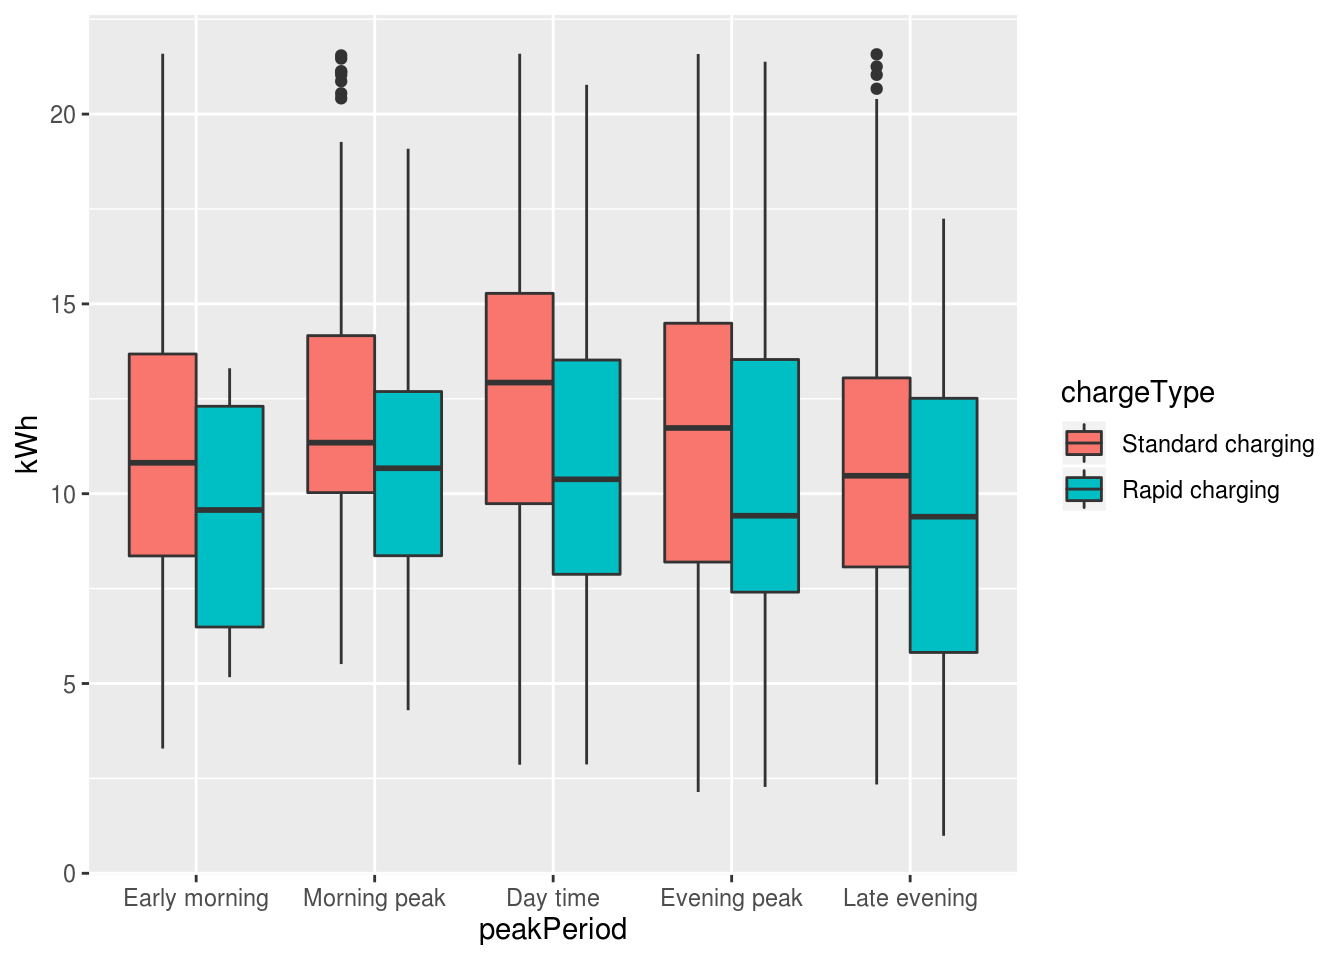
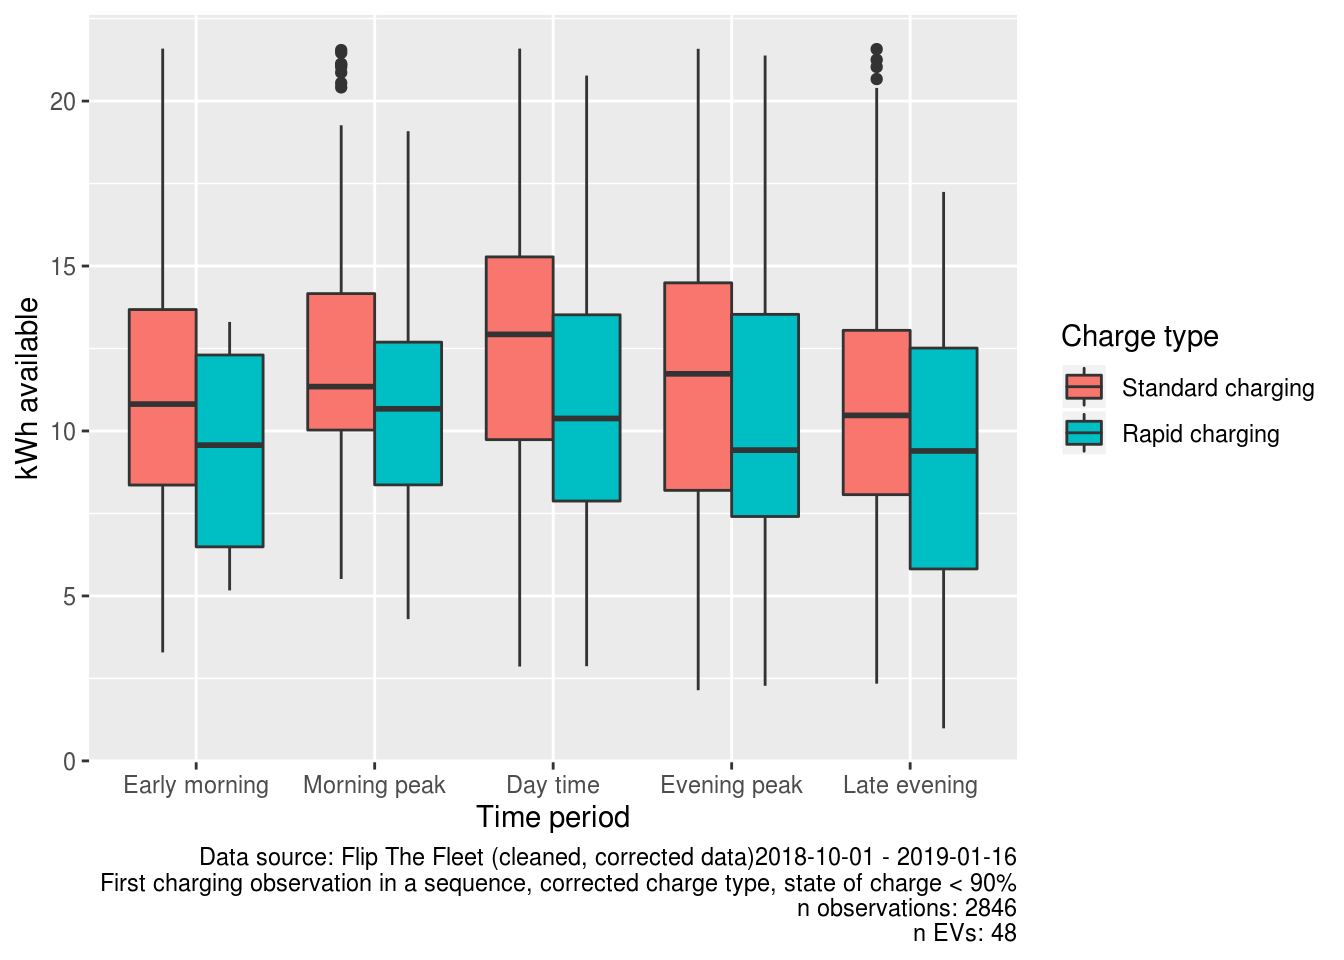
amended plot labels etc & added caption

diff --git a/docs/EVBB_report_EVBB_processed_all_v2.0_20190604.html b/docs/EVBB_report_EVBB_processed_all_v2.0_20190604.html
@@ -263,7 +263,7 @@ div.tocify {
 <h1 class="title toc-ignore">Analysis of electric vehicle usage patterns in New Zealand</h1>
 <h3 class="subtitle">Statistical report using Flip The Fleet data</h3>
 <h4 class="author">Rafferty Parker and Ben Anderson (<a href="https://www.otago.ac.nz/centre-sustainability/">Centre for Sustainability</a>, University of Otago, <a href="mailto:ben.anderson@otago.ac.nz">ben.anderson@otago.ac.nz</a>); Daniel Myall (Flip The Fleet, <a href="mailto:daniel@zeno.nz">daniel@zeno.nz</a>)</h4>
-<h4 class="date">Last run at: 2019-09-19 22:09:22</h4>
+<h4 class="date">Last run at: 2019-09-19 22:55:29</h4>
 
 </div>
 
@@ -5269,18 +5269,18 @@ Figure 6.5: Actual wholesale generation and estimated energy consumption under S
 ##  n obs: 1882040 
 ##  n variables: 10 
 ## 
-## ── Variable type:character ─────────────────────────────────────────────────────────────────────────────────────────────────────────────────────
+## ── Variable type:character ─────────────────────────────────────────────────────────────────────────────────────────────────────────
 ##      variable missing complete       n min max empty n_unique
 ##      charging       0  1882040 1882040  26  31     0        2
 ##          dvID       0  1882040 1882040   9  10     0       52
 ##            id       0  1882040 1882040  32  32     0       52
 ##  odometerFlag 1255614   626426 1882040   1   3     0        3
 ## 
-## ── Variable type:difftime ──────────────────────────────────────────────────────────────────────────────────────────────────────────────────────
+## ── Variable type:difftime ──────────────────────────────────────────────────────────────────────────────────────────────────────────
 ##  variable missing complete       n    min        max     median n_unique
 ##   timeChr       0  1882040 1882040 0 secs 86399 secs 44877 secs    86400
 ## 
-## ── Variable type:numeric ───────────────────────────────────────────────────────────────────────────────────────────────────────────────────────
+## ── Variable type:numeric ───────────────────────────────────────────────────────────────────────────────────────────────────────────
 ##                 variable missing complete       n    mean      sd     p0
 ##          charge_power_kw       0  1882040 1882040    1.59   63.73      0
 ##              odometer_km 1255614   626426 1882040 7789.97 8268.44 -62920
@@ -5290,7 +5290,7 @@ Figure 6.5: Actual wholesale generation and estimated energy consumption under S
 ##  2166.25 5309    11154    73607    ▁▁▁▇▇▁▁▁
 ##    56.31   70.41    83.05  1677.72 ▇▁▁▁▁▁▁▁
 ## 
-## ── Variable type:POSIXct ───────────────────────────────────────────────────────────────────────────────────────────────────────────────────────
+## ── Variable type:POSIXct ───────────────────────────────────────────────────────────────────────────────────────────────────────────
 ##            variable missing complete       n        min        max
 ##          r_dateTime     137  1881903 1882040 2018-04-05 2019-03-01
 ##  r_dateTimeHalfHour     137  1881903 1882040 2018-04-05 2019-03-01
@@ -5306,7 +5306,7 @@ Figure 6.5: Actual wholesale generation and estimated energy consumption under S
 ##  n obs: 1074730 
 ##  n variables: 26 
 ## 
-## ── Variable type:character ─────────────────────────────────────────────────────────────────────────────────────────────────────────────────────
+## ── Variable type:character ─────────────────────────────────────────────────────────────────────────────────────────────────────────
 ##      variable missing complete       n min max empty n_unique
 ##    chargeFlag       2  1074728 1074730  17  25     0        5
 ##      charging       0  1074730 1074730  26  31     0        2
@@ -5315,13 +5315,13 @@ Figure 6.5: Actual wholesale generation and estimated energy consumption under S
 ##  odometerFlag  750182   324548 1074730   1   3     0        3
 ##      weekdays       0  1074730 1074730   8   8     0        2
 ## 
-## ── Variable type:Date ──────────────────────────────────────────────────────────────────────────────────────────────────────────────────────────
+## ── Variable type:Date ──────────────────────────────────────────────────────────────────────────────────────────────────────────────
 ##  variable missing complete       n        min        max     median
 ##      date       0  1074730 1074730 2018-10-01 2019-01-16 2018-11-22
 ##  n_unique
 ##       108
 ## 
-## ── Variable type:difftime ──────────────────────────────────────────────────────────────────────────────────────────────────────────────────────
+## ── Variable type:difftime ──────────────────────────────────────────────────────────────────────────────────────────────────────────
 ##        variable missing complete       n    min          max     median
 ##             hms       0  1074730 1074730 0 secs   86399 secs 43858 secs
 ##           qHour       0  1074730 1074730 0 secs   85500 secs 43200 secs
@@ -5333,7 +5333,7 @@ Figure 6.5: Actual wholesale generation and estimated energy consumption under S
 ##     11447
 ##     86394
 ## 
-## ── Variable type:factor ────────────────────────────────────────────────────────────────────────────────────────────────────────────────────────
+## ── Variable type:factor ────────────────────────────────────────────────────────────────────────────────────────────────────────────
 ##     variable missing complete       n n_unique
 ##   chargeType       0  1074730 1074730        3
 ##  day_of_week       0  1074730 1074730        7
@@ -5343,7 +5343,7 @@ Figure 6.5: Actual wholesale generation and estimated energy consumption under S
 ##  Fri: 173053, Wed: 170267, Thu: 165276, Tue: 156780    TRUE
 ##  Ear: 356511, Day: 347804, Eve: 163020, Lat: 147782   FALSE
 ## 
-## ── Variable type:numeric ───────────────────────────────────────────────────────────────────────────────────────────────────────────────────────
+## ── Variable type:numeric ───────────────────────────────────────────────────────────────────────────────────────────────────────────
 ##         variable missing complete       n    mean      sd     p0    p25
 ##  charge_power_kw       0  1074730 1074730    1.59    2.87      0    0  
 ##            month       0  1074730 1074730    9.71    3.42      1   10  
@@ -5359,7 +5359,7 @@ Figure 6.5: Actual wholesale generation and estimated energy consumption under S
 ##    70.21   82.89    98.1  ▁▁▂▃▆▇▇▇
 ##     0       0       70.16 ▇▁▁▁▁▁▁▁
 ## 
-## ── Variable type:POSIXct ───────────────────────────────────────────────────────────────────────────────────────────────────────────────────────
+## ── Variable type:POSIXct ───────────────────────────────────────────────────────────────────────────────────────────────────────────
 ##            variable missing complete       n        min        max
 ##          r_dateTime       0  1074730 1074730 2018-10-01 2019-01-16
 ##    r_dateTime1MinFl       0  1074730 1074730 2018-10-01 2019-01-16
@@ -5380,7 +5380,7 @@ Figure 6.5: Actual wholesale generation and estimated energy consumption under S
 ##  n obs: 2987 
 ##  n variables: 27 
 ## 
-## ── Variable type:character ─────────────────────────────────────────────────────────────────────────────────────────────────────────────────────
+## ── Variable type:character ─────────────────────────────────────────────────────────────────────────────────────────────────────────
 ##         variable missing complete    n min max empty n_unique
 ##       chargeFlag       0     2987 2987  25  25     0        1
 ##  chargeTypeError       0     2987 2987  31  37     0        4
@@ -5390,11 +5390,11 @@ Figure 6.5: Actual wholesale generation and estimated energy consumption under S
 ##     odometerFlag    2367      620 2987   3   3     0        2
 ##         weekdays       0     2987 2987   8   8     0        2
 ## 
-## ── Variable type:Date ──────────────────────────────────────────────────────────────────────────────────────────────────────────────────────────
+## ── Variable type:Date ──────────────────────────────────────────────────────────────────────────────────────────────────────────────
 ##  variable missing complete    n        min        max     median n_unique
 ##      date       0     2987 2987 2018-10-01 2019-01-16 2018-11-22      108
 ## 
-## ── Variable type:difftime ──────────────────────────────────────────────────────────────────────────────────────────────────────────────────────
+## ── Variable type:difftime ──────────────────────────────────────────────────────────────────────────────────────────────────────────
 ##        variable missing complete    n                   min
 ##         endTime       0     2987 2987 31 secs              
 ##             hms       0     2987 2987 40 secs              
@@ -5410,7 +5410,7 @@ Figure 6.5: Actual wholesale generation and estimated energy consumption under S
 ##  230025 secs          339 secs             1685
 ##   86246 secs          15:37:40             2872
 ## 
-## ── Variable type:factor ────────────────────────────────────────────────────────────────────────────────────────────────────────────────────────
+## ── Variable type:factor ────────────────────────────────────────────────────────────────────────────────────────────────────────────
 ##             variable missing complete    n n_unique
 ##           chargeType       0     2987 2987        2
 ##  chargeTypeCorrected       0     2987 2987        2
@@ -5424,7 +5424,7 @@ Figure 6.5: Actual wholesale generation and estimated energy consumption under S
 ##       Sta: 2663, Rap: 324, Not: 0, NA: 0   FALSE
 ##  Day: 1147, Lat: 699, Eve: 556, Ear: 408   FALSE
 ## 
-## ── Variable type:numeric ───────────────────────────────────────────────────────────────────────────────────────────────────────────────────────
+## ── Variable type:numeric ───────────────────────────────────────────────────────────────────────────────────────────────────────────
 ##         variable missing complete    n    mean      sd        p0     p25
 ##  charge_power_kw       0     2987 2987    6.73   12.13      0.5     1.56
 ##            month       0     2987 2987    9.56    3.58      1      10   
@@ -5438,7 +5438,7 @@ Figure 6.5: Actual wholesale generation and estimated energy consumption under S
 ##  4342    9437.5  38453    ▁▁▁▁▇▆▂▁
 ##    49.02   60.95    98.1  ▁▃▆▇▇▃▂▂
 ## 
-## ── Variable type:POSIXct ───────────────────────────────────────────────────────────────────────────────────────────────────────────────────────
+## ── Variable type:POSIXct ───────────────────────────────────────────────────────────────────────────────────────────────────────────
 ##            variable missing complete    n        min        max     median
 ##          r_dateTime       0     2987 2987 2018-10-01 2019-01-16 2018-11-22
 ##  r_dateTimeHalfHour       0     2987 2987 2018-10-01 2019-01-16 2018-11-22
